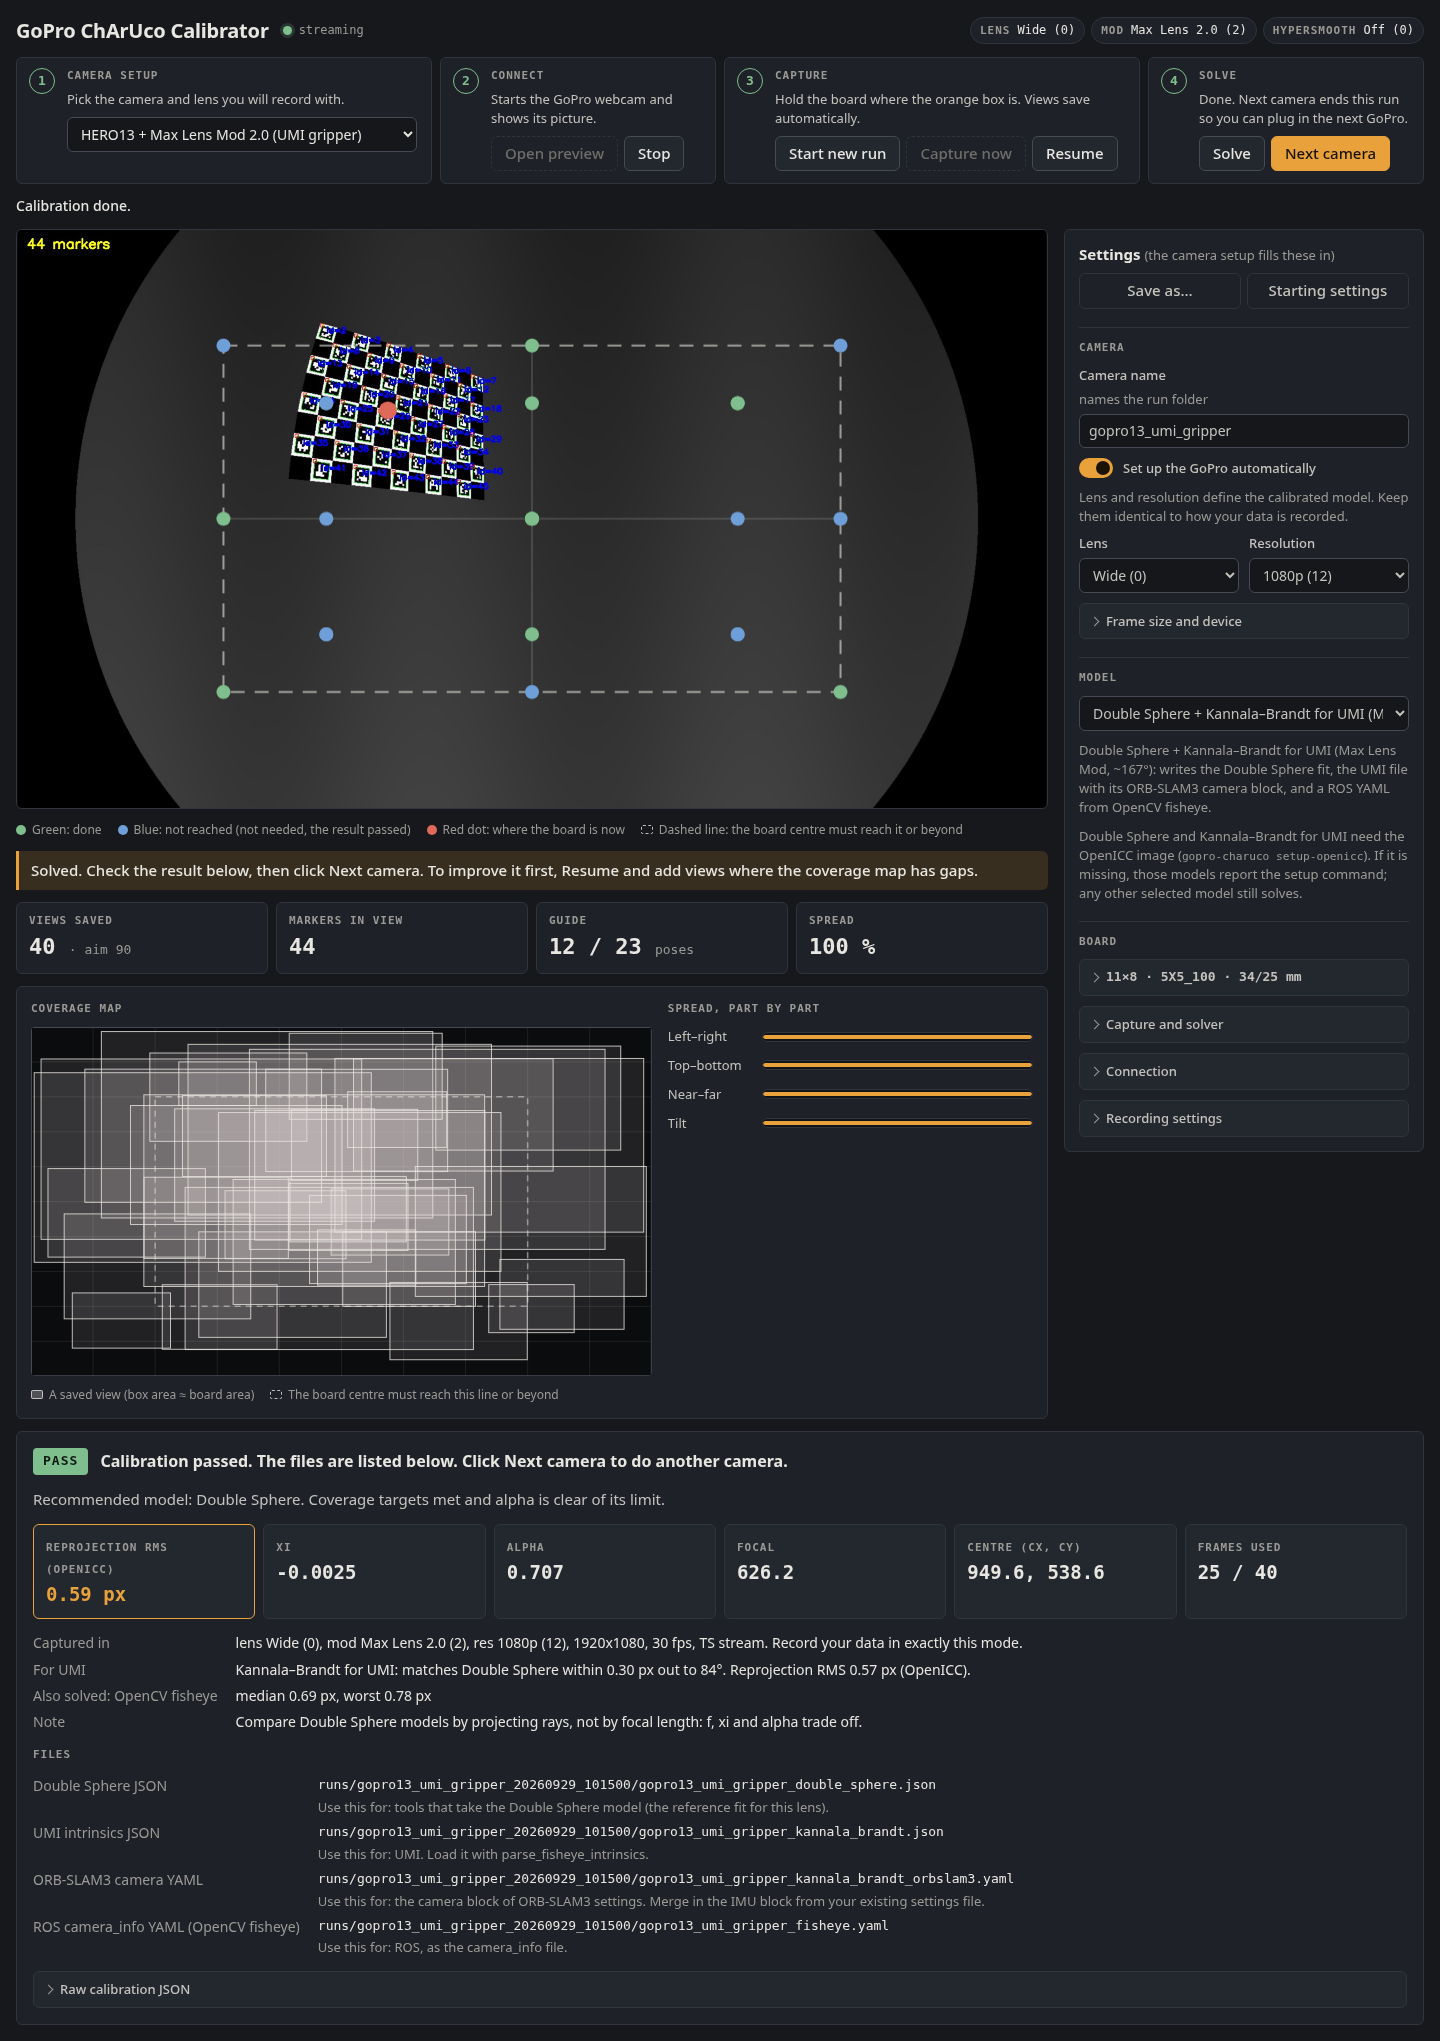
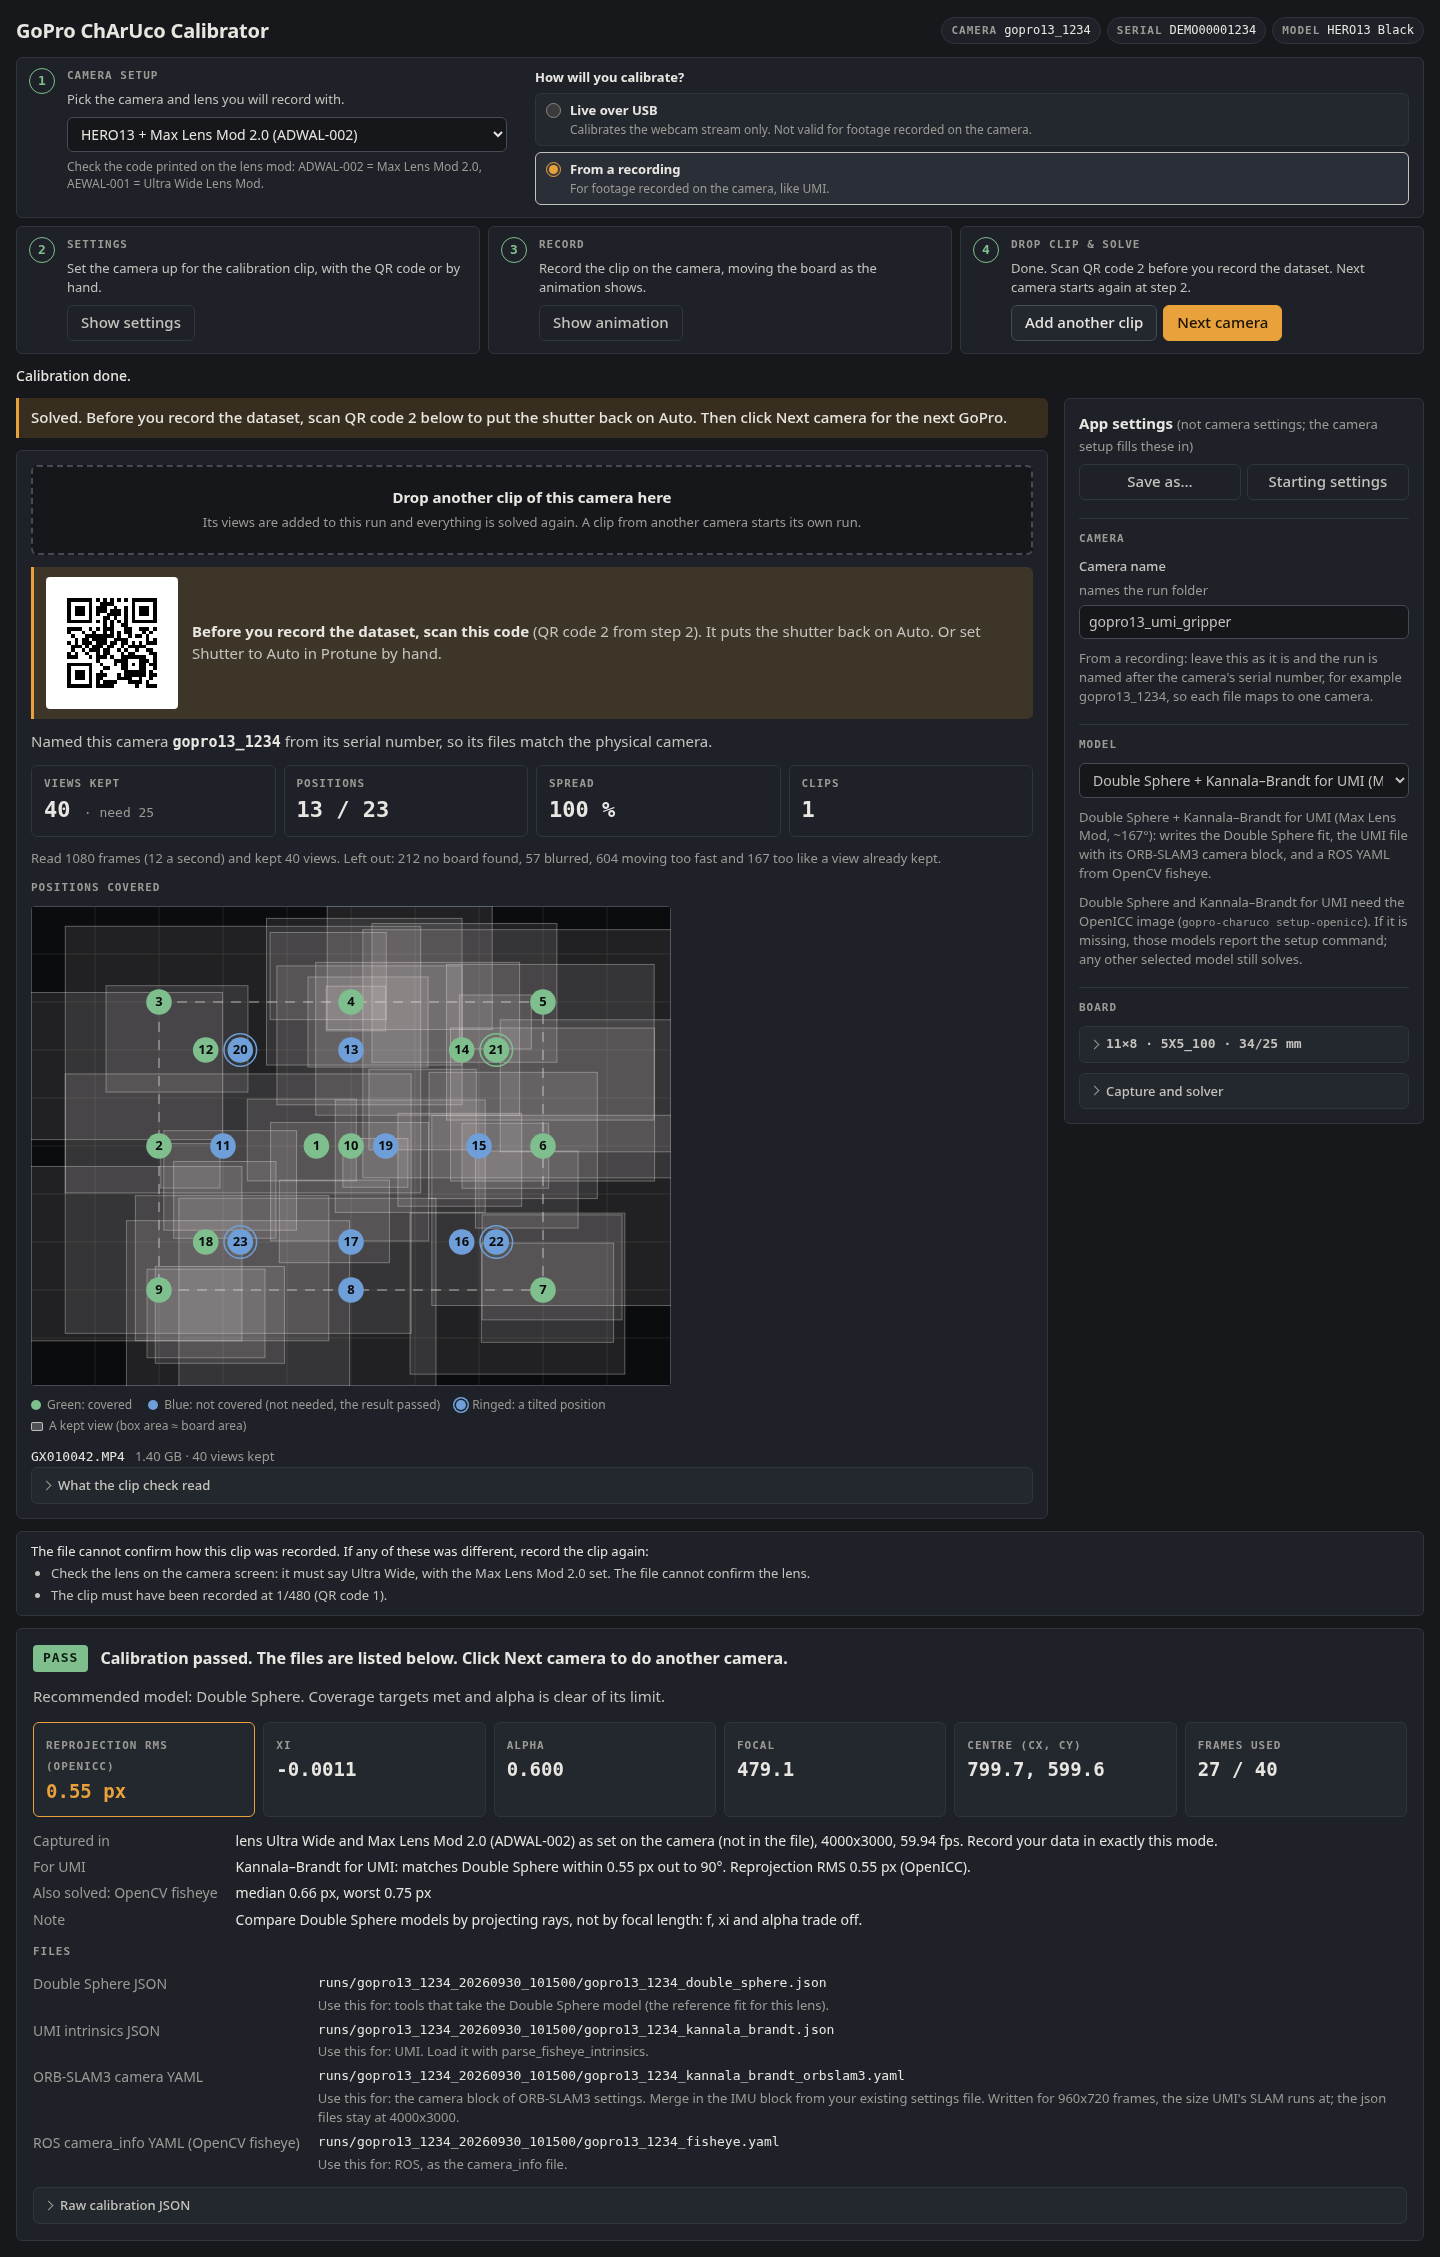
screenshot.py: README hero is the recording route solved with PASS, plus its Record step
docs/screenshot.png is now the From a recording route after a passed solve, and
docs/screenshot-recording.png its Record step with the board animation (desktop
only). The live route's solved shot moves to the review folder.

Changed region(s): [[0.0, 0.0, 0.9688, 0.9878], [0.7812, 0.0, 0.9688, 0.0926], [0.5312, 0.4939, 0.7188, 0.5556]]

diff --git a/scripts/screenshot.py b/scripts/screenshot.py
@@ -17,23 +17,24 @@ next action, the step bar agreeing with it, Next camera only after a solve,
 nothing drawn over the idle preview, no discarded or surplus boxes in the
 coverage legend, and no browser console errors. It exits non-zero if any fail.
 
-Output: docs/screenshot.png (solved, desktop). The other shots (idle, idle with
-custom settings, preview, capturing, paused with enough views, every model
-failed, OpenICC models failed, solved after the route completed, a retake after
-Stop, connecting, a stream error with views saved, after Next camera, and 390 px
-mobile) are for review only and go to --review-dir.
+Output, in --out-dir (docs/ by default): screenshot.png, the README hero (the From a
+recording route solved with PASS, desktop), and screenshot-recording.png (its Record
+step with the board animation, desktop). Every other shot is for review only and goes
+to --review-dir: the live route's idle, idle with custom settings, preview,
+capturing, paused with enough views, solved, every model failed, OpenICC models
+failed, solved after the route completed, a retake after Stop, connecting, a stream
+error with views saved, after Next camera, and 390 px mobile; and the other rec-*.png
+states of the recording route.
 
-The From a recording route's shots (rec-*.png, review only) are served the same
-way: the route's Labs QR codes and guide come from the real app, and only
-/api/recording/status is faked. Its results are the app's own solve of 4:3
-synthetic frames (gopro_charuco_calibrator/synthetic.recording_camera, 1600x1200,
-made-up intrinsics) shown as if they came from a 4000x3000 HERO13 clip, so the
-figures (focal, centre, errors) are those of the synthetic camera. The clip's
-file facts and metadata are made up for the page (no real HERO13 clip has been
-read yet); the clip-check rows are built from them by the app's own
-clipcheck.compare. The QR codes on the settings shot are decoded back from the
-screenshot.
-"""
+The From a recording route's shots are served the same way: the route's Labs QR
+codes and guide come from the real app, and only /api/recording/status is faked. Its
+results are the app's own solve of 4:3 synthetic frames
+(gopro_charuco_calibrator/synthetic.recording_camera, 1600x1200, made-up intrinsics)
+shown as if they came from a 4000x3000 HERO13 clip, so the figures (focal, centre,
+errors) are those of the synthetic camera. The clip's file facts and metadata are
+made up for the page (no real HERO13 clip has been read yet); the clip-check rows
+are built from them by the app's own clipcheck.compare. The QR codes on the settings
+shot are decoded back from the screenshot."""
 
 from __future__ import annotations
 
@@ -952,7 +953,7 @@ def main() -> int:
         (
             "solved",
             *states["solved"],
-            args.out_dir / "screenshot.png",
+            review / "solved.png",
             desktop,
             checks(
                 [*live, "#resultsPanel", ".figure"],
@@ -1224,7 +1225,7 @@ def main() -> int:
             "rec-record",
             None,
             b"",
-            review / "rec-record.png",
+            args.out_dir / "screenshot-recording.png",
             desktop,
             rec_checks(
                 ["#recRecordPanel", "#recAnim", "#animToggle", "[data-anim-moving]"],
@@ -1549,7 +1550,7 @@ def main() -> int:
             "rec-solved",
             None,
             b"",
-            review / "rec-solved.png",
+            args.out_dir / "screenshot.png",
             desktop,
             rec_checks(
                 ["#resultsPanel", "#clipUnknown", "#recCamera", ".figure", "#recReminder",
